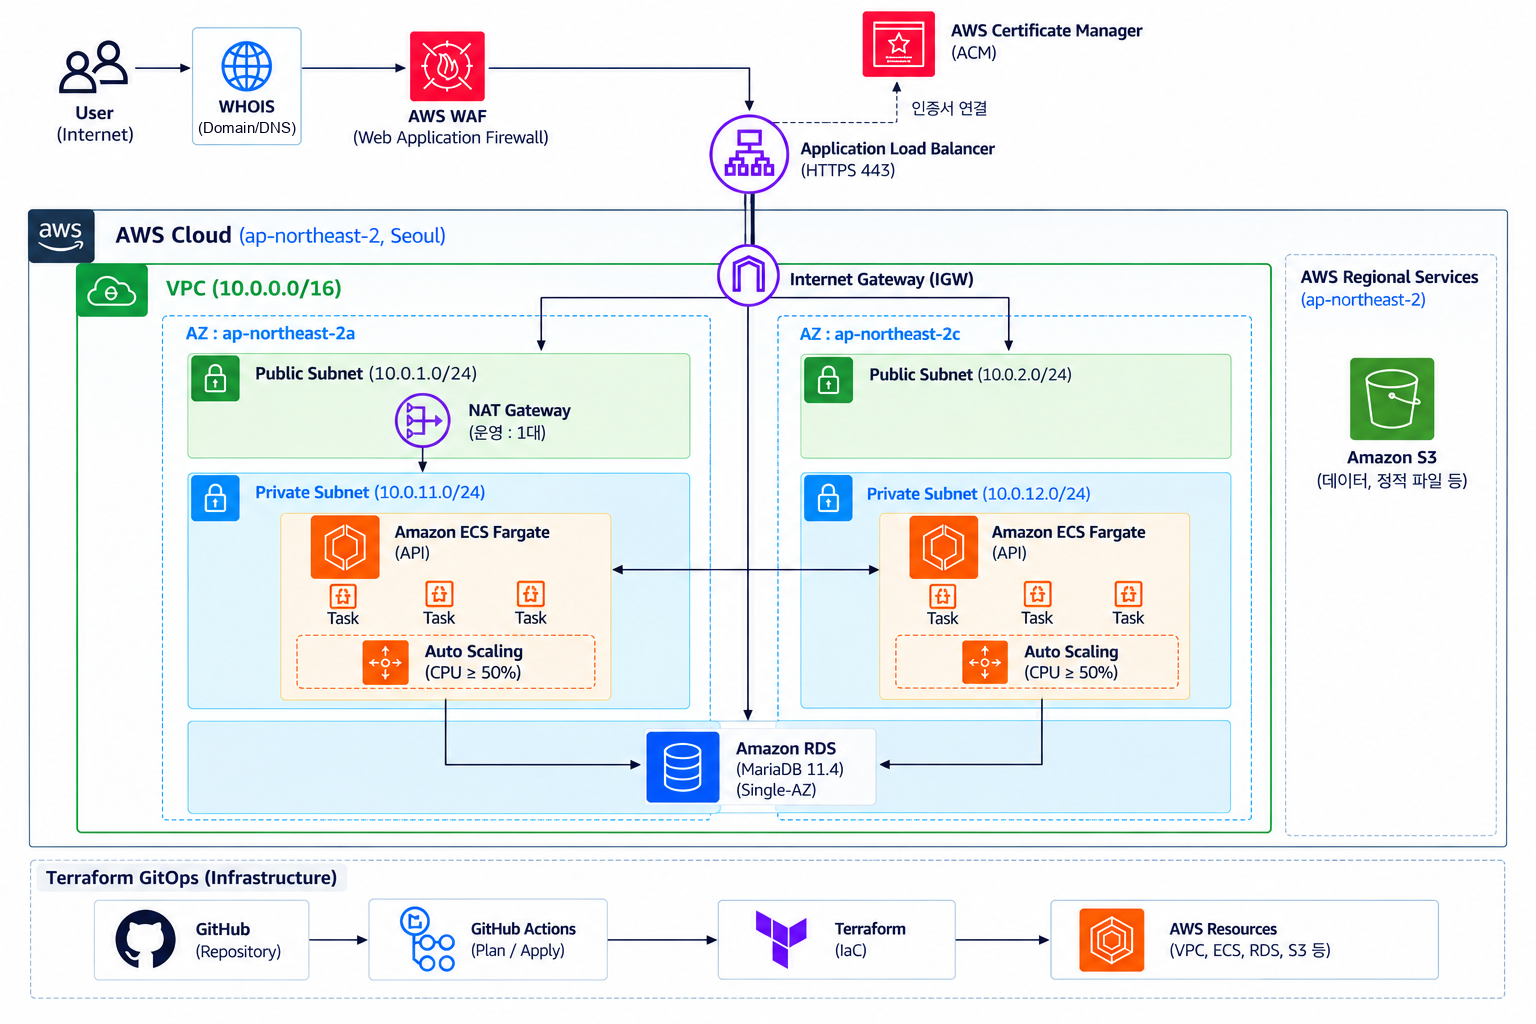
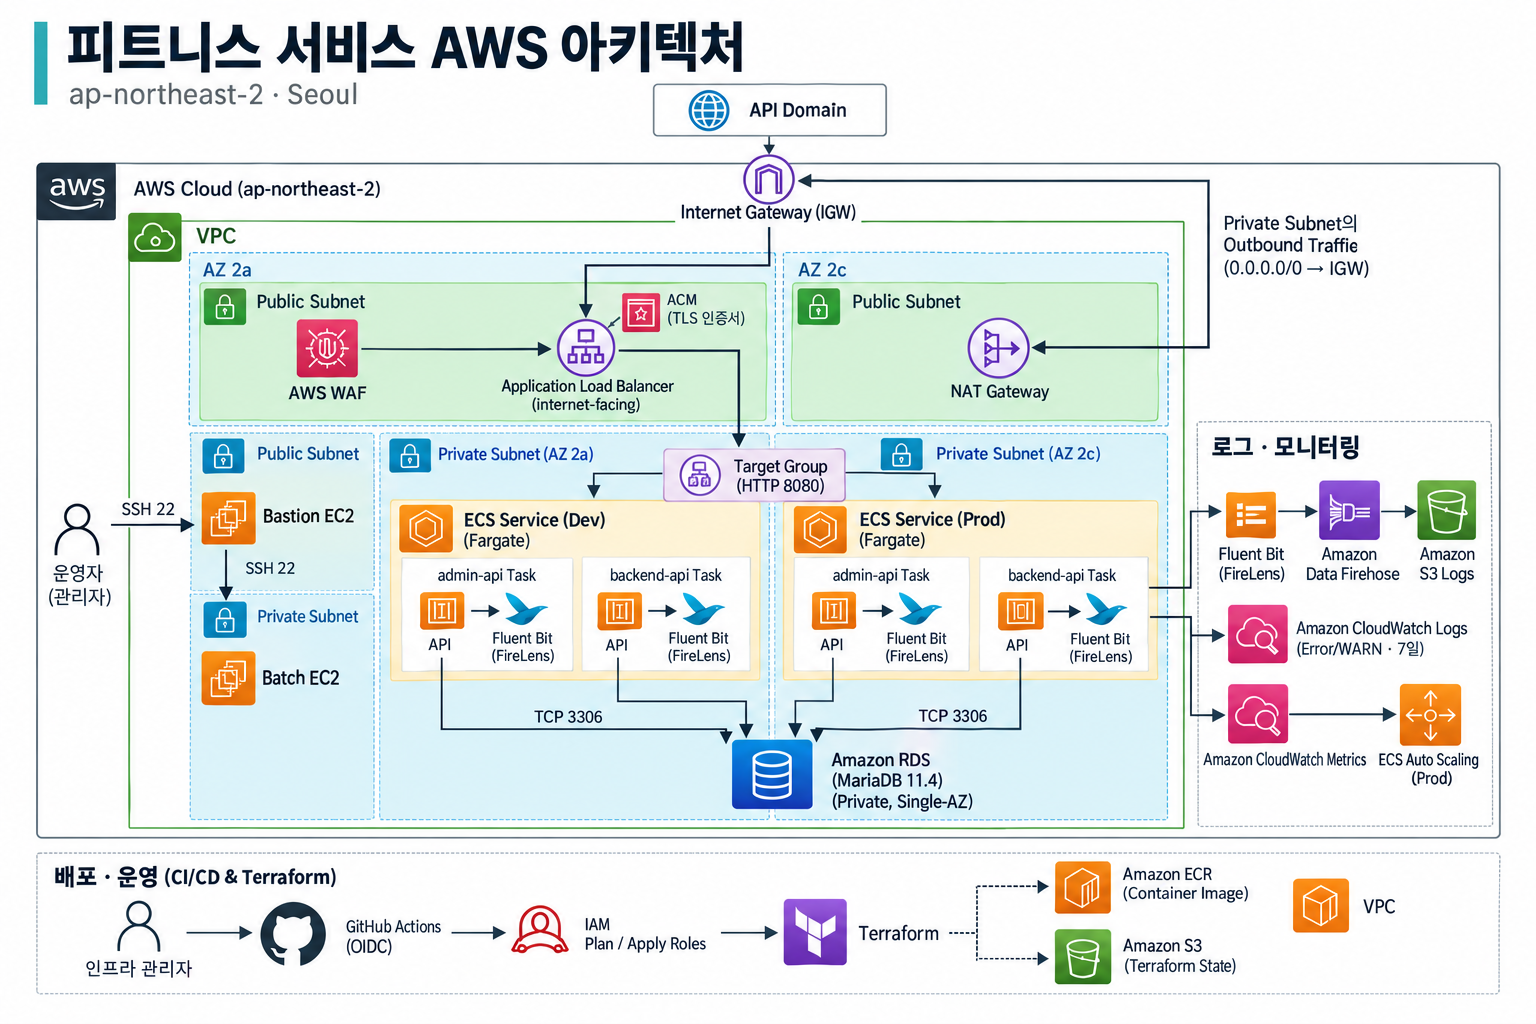
Refine resume project content and architecture presentation

diff --git a/payload/project.ts b/payload/project.ts
@@ -6,13 +6,11 @@ const project: ProjectPayload = {
     {
       title: '검색 서비스 AWS 인프라 운영 및 비용 최적화',
       where: '퍼닌 (Funin) | Backend & Infra',
-      overview:
-        'AWS 전환 이후 검색 서비스의 운영 환경을 지속적으로 관리하고 있습니다. EC2/ECS 리소스 최적화와 STG 운영 자동화, Jenkins 기반 CI/CD 환경 운영을 담당하고 있습니다.',
       startedAt: '2023-08',
       descriptions: [
         {
           content:
-            'Compute Optimizer, CloudWatch 지표 기반 EC2/ECS 최적화로 월 800만 원 이상 비용 절감 예상',
+            'Compute Optimizer와 CloudWatch 지표를 바탕으로 EC2와 ECS 리소스를 사용량에 맞게 조정해 운영 비용 절감',
         },
         { content: 'EventBridge, Lambda 및 ECS 예약 작업을 활용한 STG 환경 운영 시간 최적화' },
         { content: 'CodeCommit 소스 저장소와 Jenkins 연동 기반 CI/CD 운영' },
@@ -21,15 +19,13 @@ const project: ProjectPayload = {
     {
       title: 'IDC 검색 시스템 AWS 마이그레이션',
       where: '퍼닌 (Funin) | Backend & Infra',
-      overview:
-        'IDC에서 운영하던 검색 시스템을 AWS로 전환한 프로젝트입니다. 검색 API와 Elasticsearch 클러스터를 새롭게 구성하고, 배포와 모니터링 환경까지 함께 구축해 안정적인 운영 기반을 마련했습니다.',
       startedAt: '2023-01',
       endedAt: '2023-07',
       descriptions: [
         { content: '검색 API 운영 환경을 AWS ECS Fargate 기반으로 구축해 무중단 전환' },
         {
           content:
-            '30억+ 문서 처리를 위한 Elasticsearch 클러스터를 EC2 기반으로 신규 구축하고 데이터 마이그레이션',
+            '30억 건 이상의 문서 처리를 위한 Elasticsearch 클러스터를 EC2 기반으로 신규 구축하고 데이터 마이그레이션',
         },
         { content: 'Jenkins CI/CD 파이프라인 구축으로 배포 자동화' },
         { content: 'Prometheus, Grafana 통합 모니터링과 SNS/Slack 알림 체계 구축' },
@@ -39,22 +35,21 @@ const project: ProjectPayload = {
     {
       title: '대규모 검색/추천 플랫폼 백엔드 개발 및 운영',
       where: '퍼닌 (Funin) | Backend & Infra',
-      overview:
-        '대규모 검색/추천 서비스를 제공하는 플랫폼입니다. 검색 API 개발과 Elasticsearch, OpenSearch 기반 검색 인프라 운영을 담당하며, 성능 개선과 장애 대응을 수행하고 있습니다.',
       startedAt: '2021-12',
       descriptions: [
-        { content: 'LLM 반복 호출 비용 절감을 위한 OpenSearch kNN 벡터 검색 플랫폼 구축' },
+        {
+          content:
+            'LLM 반복 호출을 줄이기 위해 OpenSearch kNN으로 유사한 요청을 검색하고 기존 결과를 재사용하는 구조 구축',
+        },
         { content: '회원 청취 이력 기반 개인화 추천 신규 API 개발' },
         { content: '기존 검색 엔진을 활용한 공연 예매 플랫폼 검색/자동완성 API 개발' },
-        { content: '일 1200만 건 검색 로그 수집 ELK 파이프라인 구축' },
-        { content: '연말 자정 검색 요청 급증으로 인한 지연 장애를 ElastiCache 도입으로 해소' },
+        { content: '일 1,200만 건의 검색 로그를 수집하는 ELK 파이프라인 구축' },
+        { content: '연말 자정 검색 요청이 급증하면서 발생한 응답 지연을 ElastiCache 도입으로 해소' },
       ],
     },
     {
       title: '신규 게임 사전예약 시스템 개발',
       where: '게임덱스 (Gamedex) | Backend',
-      overview:
-        '4개 언어(한/영/일/중)를 지원하는 게임 사전예약 이벤트 페이지와 사내 백오피스를 개발한 프로젝트입니다.',
       startedAt: '2020-04',
       endedAt: '2021-06',
       descriptions: [

diff --git a/payload/sideProject.ts b/payload/sideProject.ts
@@ -7,48 +7,20 @@ const sideProject: ProjectPayload = {
       {
         title: '피트니스 서비스 회원 시스템 통합 플랫폼 구축',
         where: 'Side | Backend & Infra',
-        overview:
-          '분리 운영되던 피트니스 서비스의 회원/관리자 시스템을 단일 어드민으로 통합하는 프로젝트입니다. 스케줄, 회원/강사, 수강권 등 핵심 도메인의 백엔드를 개발하고, Terraform 기반 AWS 인프라와 GitOps 배포 환경을 설계 및 구축합니다.',
         startedAt: '2026-08',
         architectureImage: '/aws.png',
         descriptions: [
           {
             content:
-              '분리 운영되던 서비스별 회원, 관리자 도메인을 분석하고 통합 어드민 기준으로 정리',
+              '서비스별로 분산된 회원 관리 기능과 관리자 메뉴를 한곳에서 사용할 수 있도록 통합 어드민 개발 중',
           },
           {
             content:
-              'dev/prod 환경별 Terraform state를 독립 관리하는 역할별 스택 구조 설계',
+              '개발 환경과 운영 환경을 독립적으로 관리하도록 Terraform state를 분리하고, 인프라 역할별로 스택 구성',
           },
           {
             content:
-              'GitHub Actions 기반 Terraform Plan/Apply 워크플로 자동화, PR에서 인프라 변경 사항을 검토하고 prod 적용 전 승인 단계를 거치도록 구성',
-          },
-        ],
-      },
-      {
-        title: '신규 서비스 AWS 인프라 IaC 구축 및 다중 환경 관리',
-        where: 'Side | Infra',
-        overview:
-          'AWS 인프라 구성을 코드로 관리하기 위해 진행한 개인 프로젝트입니다. 신규 Commerce 서비스 AWS 인프라를 Terraform으로 처음부터 구축하고 dev/stg/prod 환경을 분리 구성했습니다.',
-        startedAt: '2026-04',
-        endedAt: '2026-06',
-        descriptions: [
-          {
-            content:
-              'VPC, ELB, ECS, IAM 등 주요 리소스의 Terraform 모듈화로 환경 간 중복 제거',
-          },
-          {
-            content:
-              'network, ecr, elb, compute 계층별 스택 분리로 계층 단위 독립 배포 구조 구성',
-          },
-          {
-            content:
-              '콘솔 수동 작업의 Terraform 코드화로 인프라 변경 이력 관리',
-          },
-          {
-            content: 'GitHub Repository',
-            href: 'https://github.com/ym1085/terraform-provisioning',
+              'GitHub Actions로 Terraform Plan/Apply를 자동화하고, PR 변경 사항 검토와 운영 환경 적용 전 승인 절차 구성',
           },
         ],
       },

diff --git a/payload/highlight.ts b/payload/highlight.ts
@@ -15,7 +15,7 @@ const highlight: HighlightPayload = {
     },
     {
       title: '인프라 비용 최적화',
-      description: '지표 기반 리소스 최적화로 월 800만 원 이상 비용 절감 예상',
+      description: '지표 기반 리소스 최적화로 인프라 운영 비용 절감',
       keywords: ['AWS', 'CloudWatch', 'Compute Optimizer'],
     },
   ],

diff --git a/component/common/CommonRow.tsx b/component/common/CommonRow.tsx
@@ -17,7 +17,7 @@ function ArchitectureToggle({ src }: { src: string }) {
   const id = lightboxId(src);
   return (
     <>
-      <details className="architecture-toggle" open>
+      <details className="architecture-toggle">
         <summary>아키텍처 보기</summary>
         <button type="button" popoverTarget={id} className="architecture-thumb">
           <img

diff --git a/payload/education.ts b/payload/education.ts
@@ -5,7 +5,7 @@ const education: EducationPayload = {
 
   list: [
     {
-      title: 'Java 기반 웹/앱 개발 과정',
+      title: 'Java & Spring 기반 웹 애플리케이션 개발 과정',
       subTitle: '수료',
       startedAt: '2019-08',
       endedAt: '2020-02',
